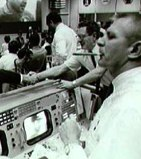
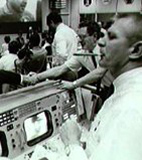
new an higher resolution imagery
added new images for more situations and higher ress for most files

diff --git a/index.html b/index.html
@@ -28,14 +28,20 @@
         }
             ,images = { //images of the various "actors" stored conveniently in an array
             CDR:"armstrong.jpg",
-            CDREAGLE:"armstrong.jpg",
-            CDRTRAN:"armstrong.jpg",
-            CDREVA:"armstrong.jpg",
+.jpg",
+     CDREAGLE:"armstrong_lbase.jpg",
+.jpg",
+     CDRTRAN:"armstrong_lbase.jpg",
+.jpg",
+     CDREVA:"armstrong_moon.jpg",
             CMP:"collins.jpg",
             LMP:"aldrin.jpg",
-            LMPEAGLE:"aldrin.jpg",
-            LMPTRAN:"aldrin.jpg",
-            LMPEVA:"aldrin.jpg",
+.jpg",
+     LMPEAGLE:"aldrin_lbase.jpg",
+.jpg",
+     LMPTRAN:"aldrin_lbase.jpg",
+.jpg",
+     LMPEVA:"aldrin_moon.jpg",
             NIXON:"nixon.jpg",
             SC:"unidentifiable_crew.jpg",
             MS:"multiple_speakers.jpg",
